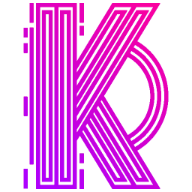
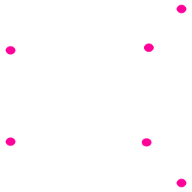
commitment text

diff --git a/src/components/Technologies.js b/src/components/Technologies.js
@@ -65,7 +65,9 @@ export default function Technologies() {
                         style={inView===true?{animation:`titleAnim ${1000+(index*100)}ms`}:{}}>
                             <div className="chart-text">
                                 <span className="chart-property">{ele.property}</span>
-                                <span className="chart-precentage">{ele.precentage}%</span>
+                                <span className="chart-precentage">
+                                    {ele.precentage}
+                                    %</span>
                             </div>
                             <div className="chart-bar">
                                 <div 
@@ -87,7 +89,10 @@ export default function Technologies() {
                     style={inView===true?{animation:`titleAnim ${1000+(index*100)}ms`}:{}}>
                         <div className="chart-text">
                             <span className="chart-property">{ele.property}</span>
-                            <span className="chart-precentage">{ele.precentage}%</span>
+                            <span className="chart-precentage">
+                                {ele.precentage}
+                                %
+                            </span>
                         </div>
                         <div className="chart-bar">
                             <div 

diff --git a/src/components/Navbar.js b/src/components/Navbar.js
@@ -1,4 +1,4 @@
-import logo from "../images/logo/logo.png"
+import logo from "../images/logo/logo2.png"
 import linkedin from "../images/socials/linkedin.png"
 import github from "../images/socials/github.png"
 import fiverr from "../images/socials/fiverr.png"
@@ -74,7 +74,7 @@ export default function Navbar() {
          >
             <div className="inner-navbar">
                 <img src={logo} alt="navlogo" className="navbar-logo"
-                    style={currentSection==="home"?{filter: "drop-shadow(0px 0px 15px rgba(66, 0, 255, 1))"}:{}}
+                    style={currentSection==="home"?{filter: "drop-shadow(0px 0px 6px #AD00FF) drop-shadow(0px 0px 6px #AD00FF)"}:{}}
                     onClick={()=>{
                         //our logo works as home button so it is scrolling user to the top of the page
                         document.body.scrollTop = 0;

diff --git a/src/index.css b/src/index.css
@@ -69,6 +69,7 @@ body::-webkit-scrollbar-thumb:hover {
 }
 .loading-screen{
   display: flex;
+  flex-direction: column;
   align-items: center;
   justify-content: center;
 
@@ -84,6 +85,14 @@ body::-webkit-scrollbar-thumb:hover {
 .loading-screen img{
   height: 150px;
   width: 150px;
+
+  animation: loadingAnim1 1.2s infinite;
+
+}
+.loading-screen div{
+  font-size: 22px;
+
+  margin-top: 10px;
 
   animation: loadingAnim1 1.2s infinite;
 
@@ -282,6 +291,11 @@ a{
   .loading-screen img{
     height: 75px;
     width: 75px;
+  }
+  .loading-screen div{
+    font-size: 16px;
+
+    margin-top: 8px;
   }
   main{
     margin-top: 110px;

diff --git a/src/App.js b/src/App.js
@@ -22,13 +22,16 @@ export default function App() {
       setTimeout(()=>{
         document.querySelector(".loading-screen").style.display="none"
       },1000)
-    },2000)
+    },2200)
   },[])
   //there was no state needed in App itself so no props passed
   return (
     <>
       <div className="loading-screen">
         <img src={logo} alt="loader"/>
+        <div>
+        Kamilas
+        </div>
       </div>
       <Navbar/>
       <main>

diff --git a/src/components/MobileNavbar.js b/src/components/MobileNavbar.js
@@ -1,4 +1,4 @@
-import logo from "../images/logo/logo.png"
+import logo from "../images/logo/logo2.png"
 import closeNavbar from "../images/closeNavbar.png"
 import linkedin from "../images/socials/linkedin.png"
 import github from "../images/socials/github.png"

diff --git a/src/css/navbar.css b/src/css/navbar.css
@@ -45,6 +45,8 @@ nav:hover{
     width: 80px;
 
     transition: 1000ms;
+
+    border-radius: 0px;
 }
 .hamburger{
     cursor: pointer;
@@ -52,7 +54,6 @@ nav:hover{
     display: none;
 
     border-radius: 0px;
-
 }
 .navbar-menu{
     display: flex;

diff --git a/src/css/home.css b/src/css/home.css
@@ -87,7 +87,7 @@
     animation: logoAnim 1.5s;
     animation-delay: 1.8s; 
 
-    filter: drop-shadow(0px 0px 4px rgba(66, 0, 255, 1));
+    filter: drop-shadow(0px 0px 6px rgba(66, 0, 255, 1));
 }
 
 @media (max-width: 1440px) {

diff --git a/src/css/mobilenavbar.css b/src/css/mobilenavbar.css
@@ -43,6 +43,8 @@
   .mobile-logo{
     height: 100px;
     width: 100px;
+
+    border-radius: 0px;
   }
   .close-navbar{
     cursor: pointer;
